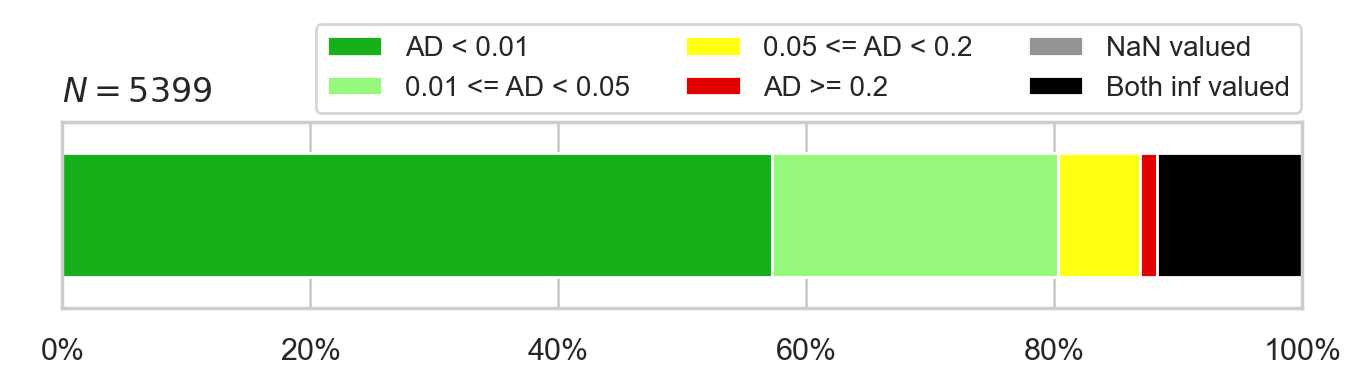
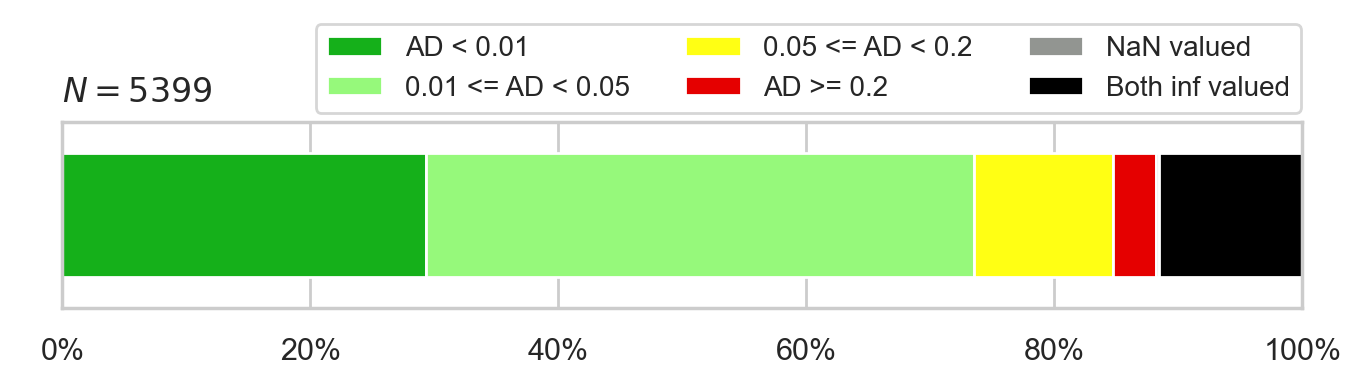
mistake in difference analysis

Changed region(s): [[0.3075, 0.4, 0.5842, 0.7077], [0.7072, 0.4, 0.8609, 0.7077]]

diff --git a/validation/comparison_summary_figures.py b/validation/comparison_summary_figures.py
@@ -11,15 +11,16 @@ import seaborn as sns
 from pywaffle import Waffle
 
 # summary comparison between bgcArgo and SAGE/DOXY audit
-fn = Path('../data/doxy_audit_vs_bgcArgo_py_comparison_20200919.csv')
+fn = Path('../data/doxy_audit_vs_bgcArgo_py_comparison_20200920.csv')
 df = pd.read_csv(fn)
-df['diffGAIN'] = df.pyGAIN - df.sageGAIN
+df['absdiffGAIN'] = np.abs(df.pyGAIN - df.sageGAIN)
+df['diffGAIN'] = np.abs(df.pyGAIN - df.sageGAIN)
 
 # make new dataframe with categories depending on absolute deviation
-counts = pd.DataFrame(dict(N=np.array([df.shape[0],df[df.diffGAIN < 0.01].shape[0],
-                            df[np.logical_and(df.diffGAIN >= 0.01, df.diffGAIN < 0.05)].shape[0],
-                            df[np.logical_and(df.diffGAIN >= 0.05, df.diffGAIN < 0.2)].shape[0],
-                            df[df.diffGAIN >= 0.2].shape[0],
+counts = pd.DataFrame(dict(N=np.array([df.shape[0],df[df.absdiffGAIN < 0.01].shape[0],
+                            df[np.logical_and(df.absdiffGAIN >= 0.01, df.absdiffGAIN < 0.05)].shape[0],
+                            df[np.logical_and(df.absdiffGAIN >= 0.05, df.absdiffGAIN < 0.2)].shape[0],
+                            df[df.absdiffGAIN >= 0.2].shape[0],
                             np.sum(df.pyGAIN.isna()),
                             np.sum(np.logical_and(np.isinf(df.pyGAIN), np.isinf(df.sageGAIN)))]),
                         name=np.array(['Total', 'AD < 0.01', '0.01 <= AD < 0.05',
